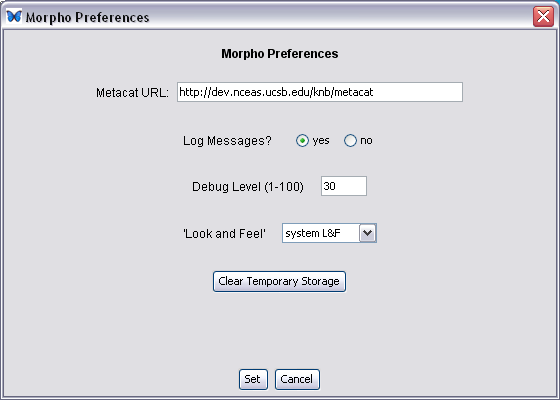
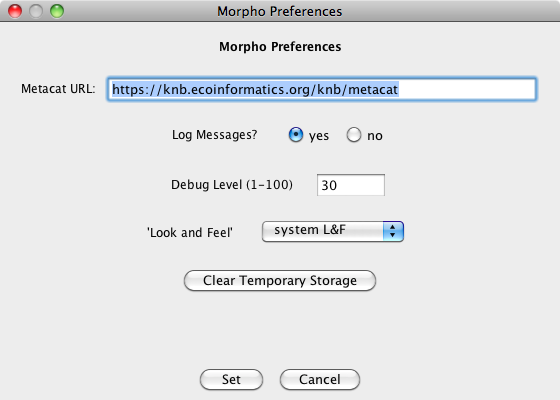
new preference screen shot showing the knb url (not dev)

diff --git a/docs/user/latex/MorphoUserGuide.tex b/docs/user/latex/MorphoUserGuide.tex
@@ -13,8 +13,6 @@
 %	 -information about language bundles
 % - compress figures to reduce file size?
 % - make a better color for internal links?
-% - [preferences.tex] replace Morpho preferences figure with one that
-%   shows the default Metacat URL (rather than dev)
 %
 % Jim Regetz
 % NCEAS
